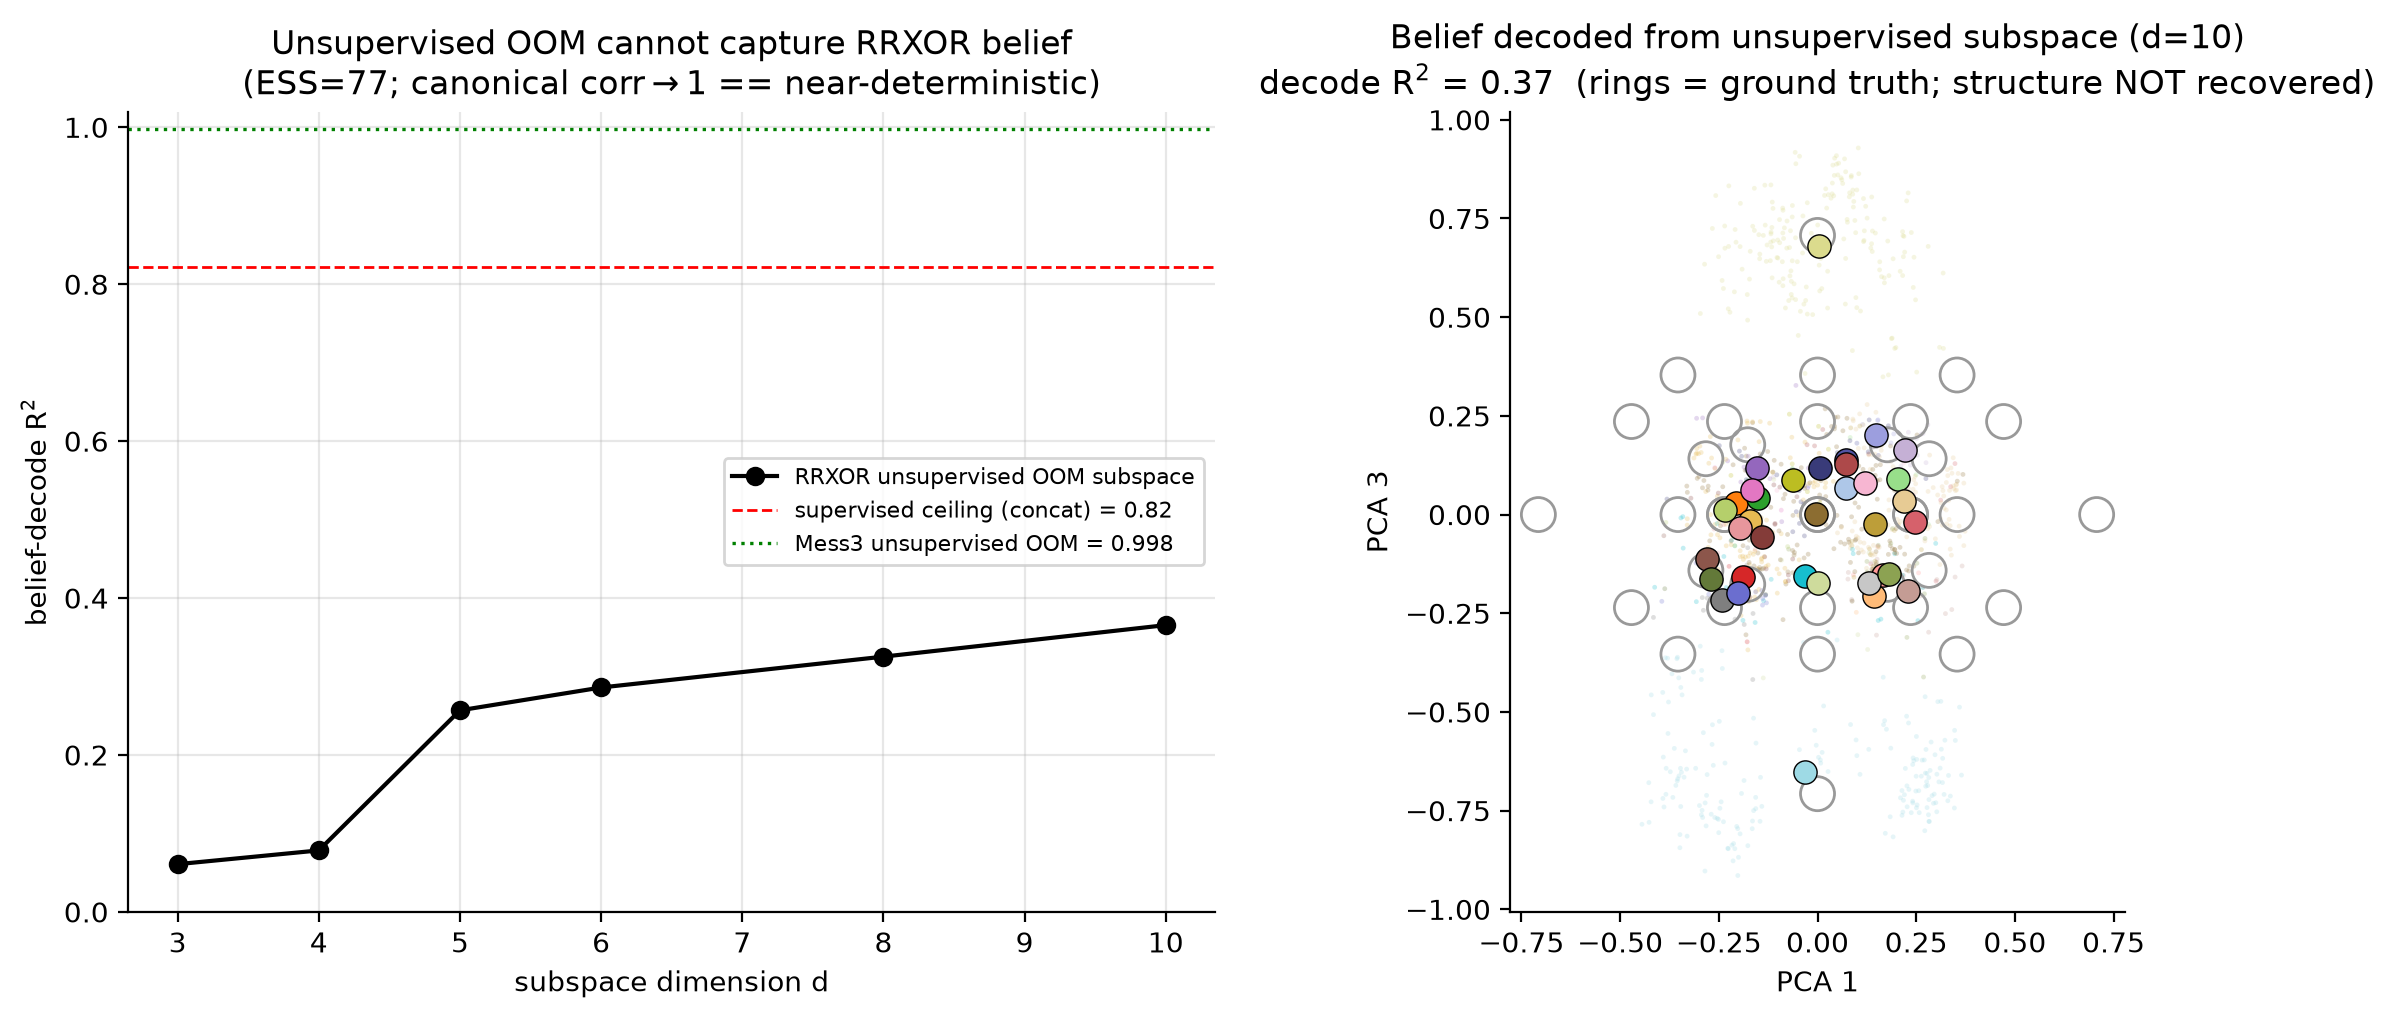
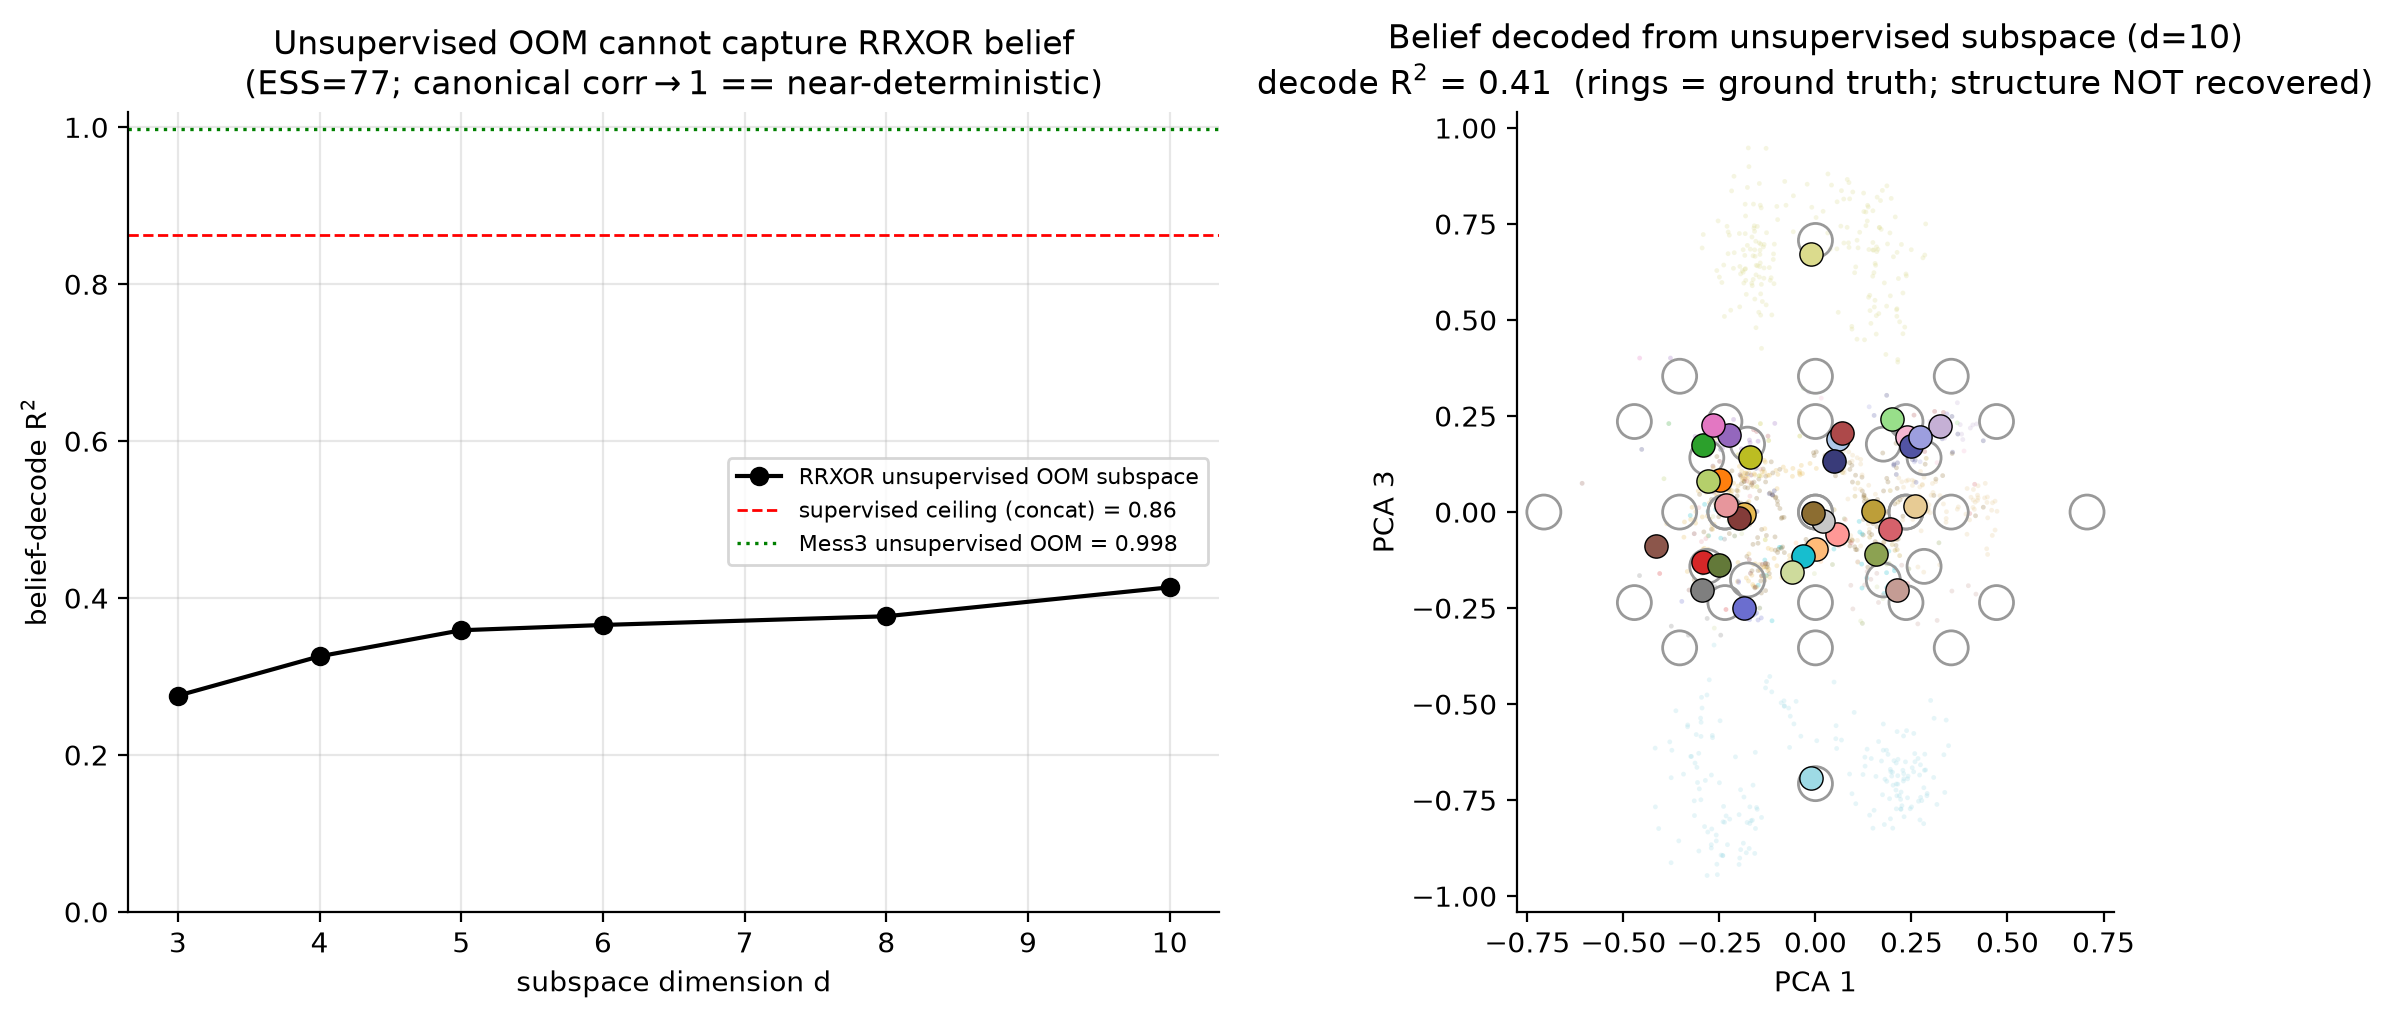
Fig 7: use the actual residual stream (hook_resid_post), not ln1.hook_normalized
The paper's text concatenates the residual streams; switch fig10 (panel C),
fig11 (panel E) and fig13 (unsupervised OOM) from blocks.k.ln1.hook_normalized
(the residual stream after each block's input LayerNorm) to blocks.k.hook_resid_post
(the raw residual stream). This both matches the paper's stated method and decodes
belief more cleanly:
  - fig10 panel C: regression R^2 0.81 -> 0.88, clusters noticeably tighter.
  - fig11 panel E: RRXOR Concat MSE 0.012 -> 0.009 (paper ~0.005); per-layer lower.
  - fig13 OOM: ceiling 0.82 -> 0.86, best unsupervised decode 0.37 -> 0.41
    (negative result unchanged: ESS~77, canonical corr ->1).

The authors' released notebook used ln1.hook_normalized; the residual stream is
faithful to the paper's wording and closer to the published figure.

diff --git a/reproduction/fig13_rrxor_unsupervised_oom.py b/reproduction/fig13_rrxor_unsupervised_oom.py
@@ -9,10 +9,10 @@ belief to 0) -- so no process knowledge beyond vocab + the model's softmax is us
 
 FINDING: the unsupervised OOM CANNOT recover RRXOR's belief geometry. Even in the
 most generous setting (uniform reachability weights, PCA pre-reduction, best d), the
-belief decoded from the unsupervised subspace plateaus at R^2 ~ 0.38, far below the
-supervised concat ceiling (0.82) and Mess3's 0.998. Three compounding, quantified
-reasons -- the unsupervised mirror of the paper's central RRXOR point (belief
-geometry is distributed and weakly linear):
+belief decoded from the unsupervised subspace plateaus at R^2 ~ 0.41, far below the
+supervised residual-stream concat ceiling (0.86) and Mess3's 0.998. Three compounding,
+quantified reasons -- the unsupervised mirror of the paper's central RRXOR point
+(belief geometry is distributed and weakly linear):
   1. RRXOR's activations are near-deterministic given the prefix, so the CCA
      canonical correlations all saturate at 1.0 -- the predictive-correlation
      ranking that isolates belief on Mess3 carries no signal here.
@@ -20,7 +20,7 @@ geometry is distributed and weakly linear):
      activation-space echo of the paper's "spread across layers" (panel E).
   3. RRXOR's determinism gives a tiny effective sample size (~77 under probability
      weighting): too few belief states to estimate a high-dim subspace target-free.
-Supervised regression still reaches 0.82 because it has belief targets, all 384 dims
+Supervised regression still reaches 0.86 because it has belief targets, all 384 dims
 and 1046 equally-weighted prefixes; the unsupervised estimator has none of these.
 
 The figure documents this: belief-decode R^2 vs subspace dimension (plateaus low),
@@ -101,7 +101,7 @@ def load_model(device):
 def collect(model, device):
     """All token strings (len 1..MAX_LEN): concat last-pos activation, softmax, belief, P(w)."""
     nL = model.cfg.n_layers
-    hooks = ["hook_embed"] + [f"blocks.{i}.ln1.hook_normalized" for i in range(nL)] + ["ln_final.hook_normalized"]
+    hooks = ["hook_embed"] + [f"blocks.{i}.hook_resid_post" for i in range(nL)] + ["ln_final.hook_normalized"]
     resid, soft, belief, pp = {}, {}, {}, {}
     for L in range(1, MAX_LEN + 1):
         strs = np.array(list(itertools.product([0, 1], repeat=L)), dtype=np.int64)

diff --git a/reproduction/fig10_rrxor_representation.py b/reproduction/fig10_rrxor_representation.py
@@ -1,11 +1,17 @@
 """Figure 7C reproduction: RRXOR belief geometry in the residual stream.
 
-Faithful to the authors' rrxor_simplex.ipynb: enumerate every positive-probability
-length-n_ctx input, take the per-position ground-truth belief (5-D), regress the
-(concatenated per-layer `ln1.hook_normalized`) activations onto belief, and project
-the predicted beliefs with the SAME PCA used for panel B (the symmetric PC1/PC3).
-Small dots = individual (input,position) predictions; large dots = per-belief-state
-centre of mass. Coloured by the ground-truth belief state.
+Method: enumerate every positive-probability length-n_ctx input, take the per-position
+ground-truth belief (5-D), regress the concatenated per-layer RESIDUAL STREAM
+(`blocks.k.hook_resid_post`) onto belief, and project the predicted beliefs with the
+SAME PCA used for panel B (the symmetric PC1/PC3). Small dots = individual
+(input,position) predictions; large dots = per-belief-state centre of mass.
+
+Note on the activation: the paper's TEXT says it concatenates the residual streams,
+so we use the raw residual stream `hook_resid_post`. The authors' released notebook
+(rrxor_simplex.ipynb) instead used `ln1.hook_normalized` -- the residual stream after
+each block's input LayerNorm (mean-centred + scale-normalised). The raw residual
+stream both matches the paper's wording and decodes belief more cleanly here
+(R^2 ~ 0.88 vs ~ 0.81 for ln1), giving tighter clusters closer to the published figure.
 """
 
 from pathlib import Path
@@ -116,10 +122,10 @@ def main():
     print(f"positive-prob length-{N_CTX} inputs: {len(seqs)}")
 
     model = load_model(MODEL_DIR / "rrxor_transformer.pt", device)
-    layer_hooks = [f"blocks.{i}.ln1.hook_normalized" for i in range(model.cfg.n_layers)]
+    layer_hooks = [f"blocks.{i}.hook_resid_post" for i in range(model.cfg.n_layers)]
     acts = collect_activations(model, seqs, device, layer_hooks)
 
-    # concat per-layer ln1 activations -> regress onto belief
+    # concat per-layer residual streams -> regress onto belief
     concat = np.concatenate([acts[h] for h in layer_hooks], axis=-1)   # (N, n_ctx, 4*d)
     X = concat.reshape(-1, concat.shape[-1])
     Y = beliefs.reshape(-1, NSTATES)

diff --git a/reproduction/fig11_rrxor_layerwise_mse.py b/reproduction/fig11_rrxor_layerwise_mse.py
@@ -1,8 +1,8 @@
 """Figure 7E reproduction: belief-regression MSE per activation type.
 
 For RRXOR and Mess3, regress each activation type onto the ground-truth belief and
-report the MSE:  Embed, Layer 1..4 (blocks.k.ln1.hook_normalized), LN Final
-(ln_final.hook_normalized), and Concat (all of them concatenated).
+report the MSE:  Embed, Layer 1..4 (blocks.k.hook_resid_post = the residual stream
+after each block), LN Final (ln_final.hook_normalized), and Concat (all concatenated).
 
 The paper's point: for RRXOR the geometry is spread across layers, so each single
 layer has high MSE but the Concat is low; for Mess3 every layer already carries it
@@ -83,7 +83,7 @@ def load_model(path, device):
 
 def activation_mses(model, seqs, bels, device):
     nL = model.cfg.n_layers
-    hooks = ["hook_embed"] + [f"blocks.{i}.ln1.hook_normalized" for i in range(nL)] + ["ln_final.hook_normalized"]
+    hooks = ["hook_embed"] + [f"blocks.{i}.hook_resid_post" for i in range(nL)] + ["ln_final.hook_normalized"]
     inp = torch.from_numpy(seqs).to(device)
     cache_acc = {h: [] for h in hooks}
     for i in range(0, len(inp), 4096):
@@ -99,7 +99,7 @@ def activation_mses(model, seqs, bels, device):
 
     labels = ["Embed"] + [f"Layer {i+1}" for i in range(nL)] + ["LN Final", "Concat"]
     vals = [mse(acts["hook_embed"])]
-    vals += [mse(acts[f"blocks.{i}.ln1.hook_normalized"]) for i in range(nL)]
+    vals += [mse(acts[f"blocks.{i}.hook_resid_post"]) for i in range(nL)]
     vals += [mse(acts["ln_final.hook_normalized"])]
     vals += [mse(np.concatenate(list(acts.values()), axis=-1))]
     return labels, vals
